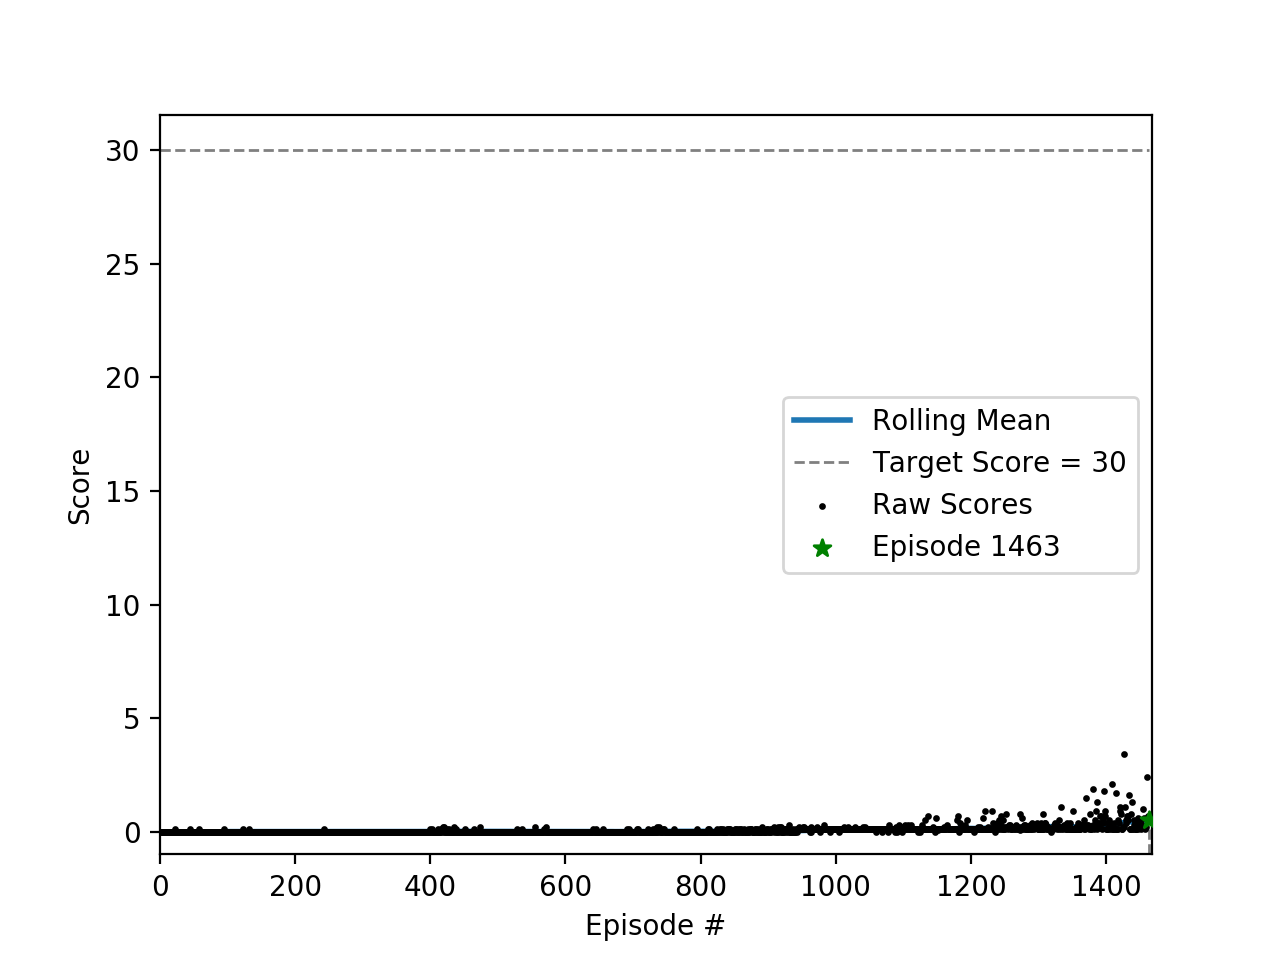
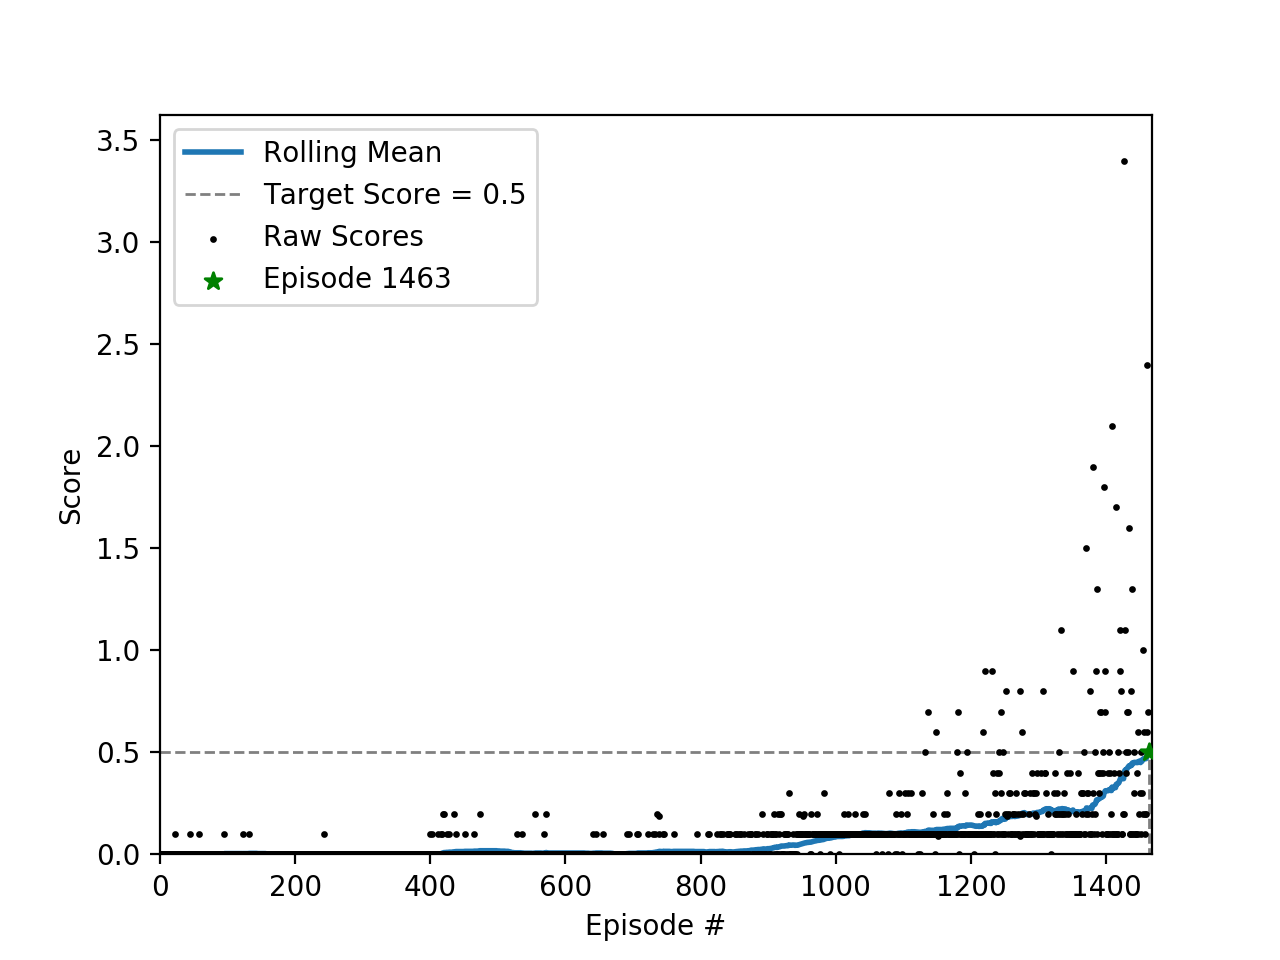
Updated report for Windows solution.
Addresses issue #4.

diff --git a/tennis/train.py b/tennis/train.py
@@ -19,7 +19,7 @@ def make_plot(show=False):
 
     import matplotlib.pyplot as plt
 
-    target = 30
+    target = 0.5
 
     # Load the previous scores and calculated running mean of 100 runs
     # ---------------------------------------------------------------------------------------
@@ -43,7 +43,7 @@ def make_plot(show=False):
     plt.xlabel('Episode #')
     plt.legend()
     plt.xlim([0, x_max + 5])
-    plt.ylim(bottom=y_min)
+    plt.ylim(bottom=0)
     if show:
         plt.show()
     else:

diff --git a/Report.md b/Report.md
@@ -1,14 +1,19 @@
-# Project 2: Reacher - Report
+# Project 3: Tennis - Report
 
 ## Introduction
-This report is written to satisfy the `Report` component of the project 2 rubric and is divided into three sections per 
-the [rubric](https://review.udacity.com/#!/rubrics/1890/view).
+This report is written to satisfy the `Report` component of the project 3 rubric and is divided into three sections per 
+the [rubric](https://review.udacity.com/#!/rubrics/1891/view).  
+
+A very interesting aspect of this project was the near complete reuse from project 2, which solved the Reacher 
+environment.  The exact same agents were used with the exact same hyperparameters.  The only difference was a list of 
+two agents, one for each player, and the replay buffer of each agent was populated with the experiences of both players.
+The Reacher solution can be found in [this](https://github.com/daniel-fudge/reinforcement-learning-reacher) repo.
 
 ## Learning Algorithm  
 As defined in the rubric, this section _"clearly describes the learning algorithm, along with the chosen hyperparameters.
 It also describes the model architectures for any neural networks"_.
 
-This implementation uses a custom Python package `reacher` contained in this repository.  Within this package exists 3 
+This implementation uses a custom Python package `tennis` contained in this repository.  Within this package exists 3 
 submodules `model`, `ddpg_agent` and `train`.
 
 ### `model` Submodule
@@ -33,10 +38,10 @@ The `ddpg_agent` submodule defines 3 classes; `Agent`, `ReplayBuffer` and `OUNoi
 The `ReplayBuffer` class stores the experience tuples with its `add` method and allows them to be sampled with its 
 `sample` method to perform experience replay learning.  
 
-The `Agent` class creates a local and target `reacher.model.Critic` class; `self.critic_local` and `self.critic_target`. 
-As well as a local and target `reacher.model.Actor` class; `self.actor_local` and `self.actor_target`, with the 
+The `Agent` class creates a local and target `tennis.model.Critic` class; `self.critic_local` and `self.critic_target`. 
+As well as a local and target `tennis.model.Actor` class; `self.actor_local` and `self.actor_target`, with the 
 `torch.optim.adam` optimizer applied to both local networks.  It also employs experience replay with `self.memory` using 
-the `reacher.ddpg_agent.ReplayBuffer`.  
+the `tennis.ddpg_agent.ReplayBuffer`.  
 
 The `OUNoise` class simply defines an Ornstein-Uhlenbeck noise process to be applied to the actions returned from the 
 `Agent.act` method to aid learning.
@@ -59,17 +64,17 @@ The `train` submodule brings the `model` and `ddpg_agent` submodules together to
 
 The `train.setup` function simply initializes the environment and agent.  
 The `train.train` function takes the given environment and agent, then trains the agent for the given maximum number of 
-episodes or until the running mean error for 100 episode is 30 or greater.  Once the training is complete the weights 
-are saved as `checkpoint_actor.pth` and `checkpoint_critic.pth` and the scores are saved as a NumPy object as 
-`scores.npz`.
+episodes or until the running mean error for 100 episode is 0.5 or greater.  Once the training is complete the weights 
+are saved as `checkpoint_actor_[player].pth` and `checkpoint_critic_[player.pth]` for player 1 and 2 and the scores are 
+saved as a NumPy object as `scores.npz`.
 
 For each time step, the function first determines the action `a` from the `Agent.act` method and the current state `s`.  
 Then queries the environment to determine the resulting next state `s'`, reward `r` and if the episode is `done`.  This 
 combines to make an experience `(s, a, r, s', done)` tuple.  
 
-The `Agent.step` method then adds this experience to memory and the `Agent.learn` method is called with a random sample 
-of experience tuples from memory to update the Q-Networks as described above.  This is repeated for each time step until 
-a True `done` value is returned from the environment.  
+The `Agent.step` method then adds the experiences of both players to memory and the `Agent.learn` method is called with 
+a random sample of experience tuples from memory to update the Q-Networks as described above.  This is repeated for each
+time step until a True `done` value is returned from the environment.  
 
 The `Agent.make_plot` submodule simply reads the `scores.npz` file and generates a plot of the reward evolution.  
 
@@ -92,7 +97,7 @@ actions between -1 and 1.
 
 ## Plot of Rewards  
 The image below illustrates the score of each episode as well as the running average score for the last 100 episodes.
-As you can see, the algorithm solves the problem in 317 episodes by hitting a running average of +30.  Note that
+As you can see, the algorithm solves the problem in 1463 episodes by hitting a running average of +0.5.  Note that
 the score is the sum of the rewards the agent receives in an episode without discounting.
 
 ![Scores](scores.png)
